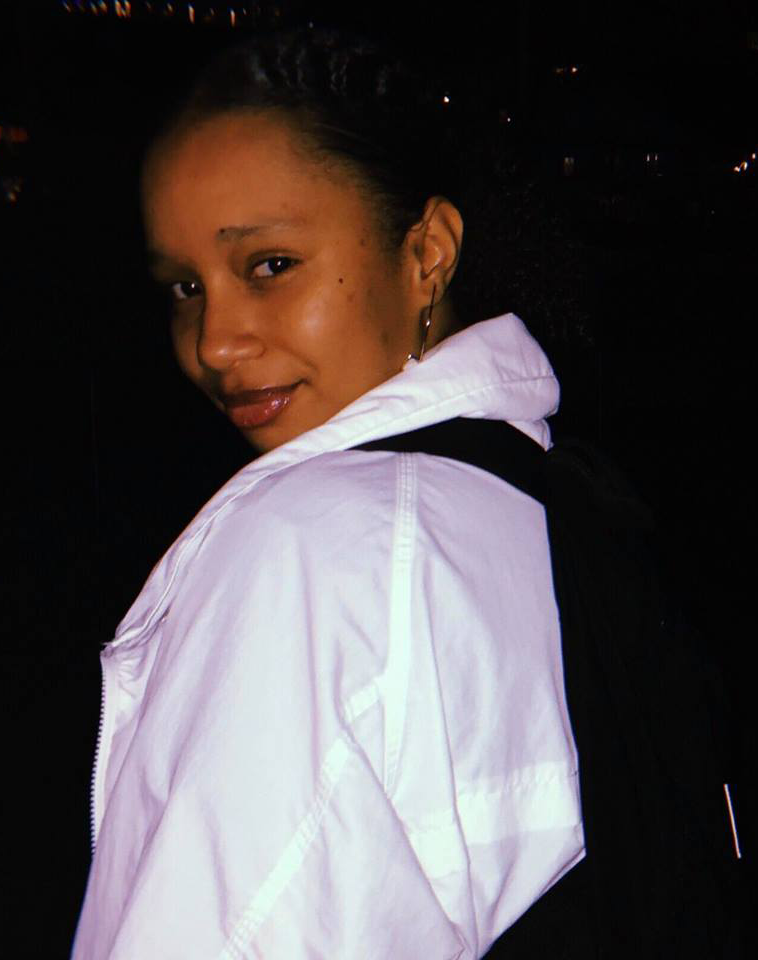
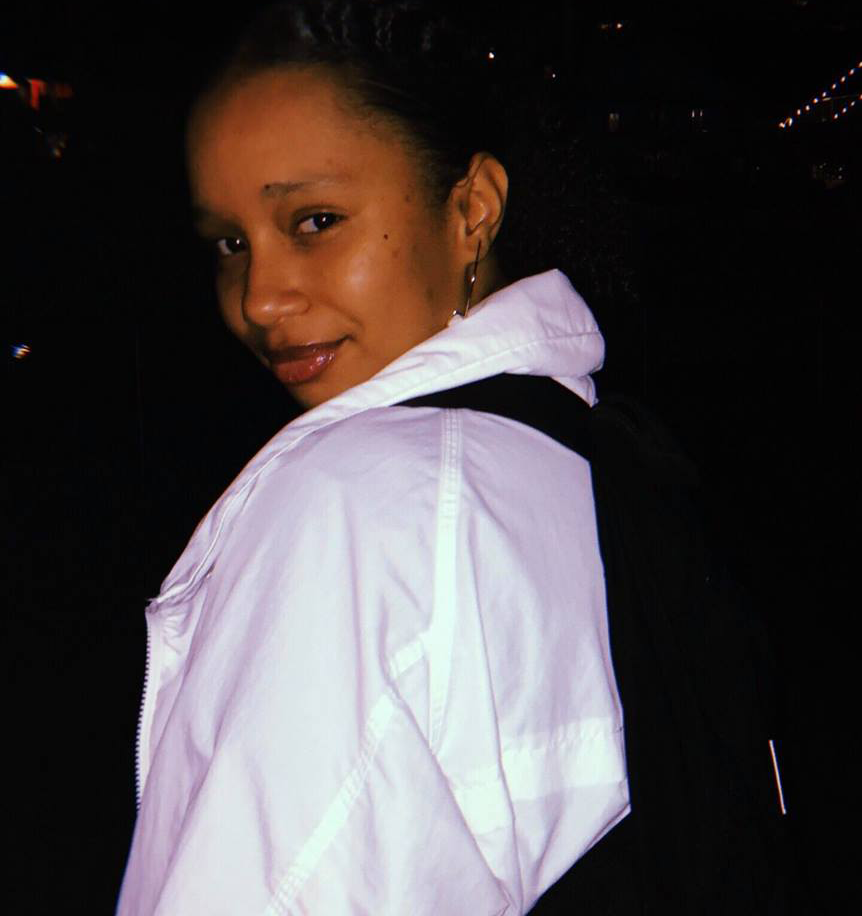
Drop shadows and new images

diff --git a/src/client/App.css b/src/client/App.css
@@ -32,13 +32,6 @@ p, li {
   font-size: 1em;
 }
 
-.break {
-  width: 10%;
-  margin-top: 3%;
-  margin-bottom: 3%;
-  font-size: 0.1em;
-}
-
 button {
   border: 1px solid;
   margin-top: 4%;
@@ -142,6 +135,11 @@ button:hover {
   max-height: 100vh;
 }
 
+#learn img{
+  padding: 5%;
+  top: 15%;
+}
+
 @media (max-width: 769px) {
   .hero, .description, .stream, .hacker-stories, .sponsor, .contact {
     min-height: 100%;
@@ -170,7 +168,7 @@ button:hover {
 
 @media (max-width: 1025px) {
   .hero-text, .description-text {
-    margin-top: 22%;
+    margin-top: 20%;
     max-width: 40%;
   }
   .hero img {
@@ -366,13 +364,13 @@ button:hover {
   padding-left: 2%;
   width: 100%;
   border-radius: 7px;
-  box-shadow: 0 4px 8px 0 rgba(0, 0, 0, 0.2);
+  box-shadow: 0px 0 6px 0 rgba(0, 0, 0, 0.1);
   outline: none;
   background-color: transparent;
 }
 
 .accordion:hover {
-  box-shadow: 0 4px 8px 0 rgba(0, 0, 0, 0.1);
+  box-shadow: 0 0 6px 0 rgba(0, 0, 0, 0.05);
   transition-property: box-shadow 5s ease;
 }
 
@@ -424,11 +422,16 @@ button:hover {
   margin-top: 2%;
 }
 
+.form-control {
+  border-style: none;
+  box-shadow: 0 0 5px 1px rgb(0, 0, 0, 0.1);
+}
+
 .newsletter {
   text-align: center;
   padding: 10%;
   border-radius: 7px;
-  box-shadow: 0 4px 8px 0 rgba(0, 0, 0, 0.2);
+  box-shadow: 0 0 8px 1px rgba(0, 0, 0, 0.15);
   background-color: white;
 }
 

diff --git a/src/client/App.js b/src/client/App.js
@@ -15,6 +15,7 @@ import Footer from './components/Footer';
 import HackerStories from './components/HackerStories/HackerStories';
 
 import gain from './assets/Gain.png';
+import learn from './assets/Learn.png';
 
 class App extends Component {
 	render() {
@@ -32,7 +33,8 @@ class App extends Component {
 				<Description
 					title={ResourceStrings.description_learn}
 					bod={Learn()}
-					imger={gain}
+					imger={learn}
+					id='learn'
 				/>
 				<Stream/>
 				<HackerStories/>

diff --git a/src/client/components/Description/Description.js b/src/client/components/Description/Description.js
@@ -6,7 +6,7 @@ const Description = props => (
 	<Element name={'description-' + props.id}>
 		<div className='description row container-fluid' id={props.id}>
 			<div className='col-md-6'>
-				<img src={props.imger} alt='about StarterHacks'/>
+				<img id={props.id} src={props.imger} alt='about StarterHacks'/>
 			</div>
 			<div className='col-md-6'>
 				<div className='container'>
